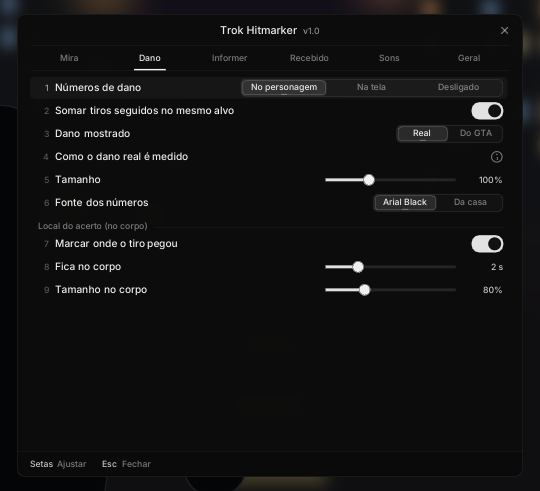
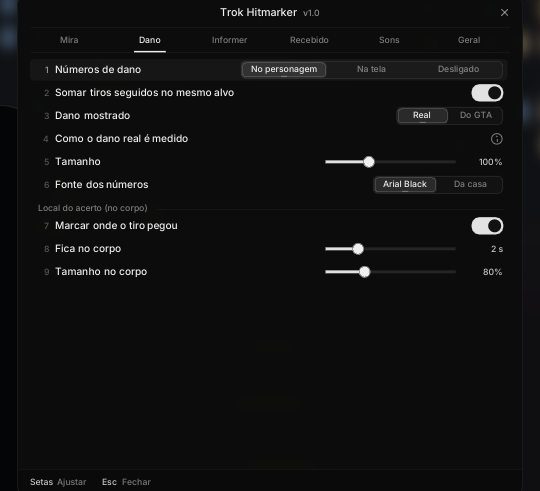
Trok Hitmarker concept: editable PNG crosshair and hit effects
Mira can be the game's, the Trok dot or an image; the hit effect can be
"Imagens". The images are PNGs in Trok Hitmarker\mira (mira, acerto,
colete, cabeca, abate), sized as they are at 1080p times the menu size,
with the same pop and fade as the dot effect and the dot as fallback.

Claude-Session: https://claude.ai/code/session_01PybPBz7ZnmDEjHWo6B5FJ6

diff --git a/trok-hit/src/hud.cpp b/trok-hit/src/hud.cpp
@@ -16,6 +16,22 @@ namespace {
 ImFont* g_text = nullptr;   // fonte da casa (nicks, rotulos)
 ImFont* g_number = nullptr; // numeros: Arial Black ou a fonte da casa
 ImFont* g_house = nullptr;  // numeros na fonte da casa
+struct Img {
+    ImTextureID texture = nullptr;
+    ImVec2 size;
+} g_images[IMG_COUNT];
+
+// Desenha a imagem centrada em c (tamanho da imagem a 1080 vezes scale); false se a imagem nao existe.
+bool Picture(ImDrawList* dl, int slot, ImVec2 c, float scale, float alpha) {
+    const Img& im = g_images[slot];
+    if (!im.texture) {
+        return false;
+    }
+    ImVec2 h(im.size.x * scale * 0.5f, im.size.y * scale * 0.5f);
+    dl->AddImage(im.texture, ImVec2(c.x - h.x, c.y - h.y), ImVec2(c.x + h.x, c.y + h.y), ImVec2(0, 0), ImVec2(1, 1),
+                 IM_COL32(255, 255, 255, static_cast<int>(255 * (alpha < 0 ? 0 : alpha > 1 ? 1 : alpha))));
+    return true;
+}
 constexpr float PI = 3.14159265f;
 
 float Clamp01(float v) {
@@ -202,7 +218,17 @@ ImU32 KindColor(Kind k, const opt::Options& o) {
     }
 }
 
+void SetImage(int slot, ImTextureID texture, ImVec2 size) {
+    if (slot >= 0 && slot < IMG_COUNT) {
+        g_images[slot].texture = texture;
+        g_images[slot].size = size;
+    }
+}
+
 void DrawCrosshair(ImDrawList* dl, ImVec2 c, float scale, const opt::Options& o) {
+    if (o.crosshair == 2 && Picture(dl, IMG_CROSSHAIR, c, scale * o.crosshairSize / 100.0f, 1.0f)) {
+        return;
+    }
     float r = 3.4f * scale * o.crosshairSize / 100.0f;
     dl->AddCircleFilled(c, r + 1.6f * scale, IM_COL32(0, 0, 0, 200), 20);
     dl->AddCircleFilled(c, r, Opaque(o.cCrosshair), 20);
@@ -247,6 +273,25 @@ void DrawMarker(ImDrawList* dl, ImVec2 c, int style, float scale, float age, Kin
                 float stay) {
     bool kill = kind == KILL;
     float life, hold;
+    if (style == 4) { // imagens: mesmos tempos e o mesmo pulo do Ponto; sem a imagem, o Ponto
+        int slot = kind == KILL ? IMG_KILL : kind == HEADSHOT ? IMG_HEAD : kind == ARMOUR ? IMG_ARMOUR : IMG_HIT;
+        if (slot == IMG_ARMOUR && !g_images[IMG_ARMOUR].texture) {
+            slot = IMG_HIT;
+        }
+        if (!g_images[slot].texture) {
+            style = 0;
+        } else {
+            life = kill ? 1.2f : kind == HEADSHOT ? 0.55f : 0.35f;
+            hold = kill ? 0.85f : kind == HEADSHOT ? 0.3f : 0.15f;
+            if (age >= life) {
+                return;
+            }
+            float a = age < hold ? 1.0f : 1.0f - (age - hold) / (life - hold);
+            float pop = 1.0f + 0.35f * (1.0f - EaseOut(age / 0.1f));
+            Picture(dl, slot, c, scale * pop, a);
+            return;
+        }
+    }
     if (style == 0) { // ponto: abate fica mais (o "morte" da Mira Centralizada durava 150 quadros)
         life = kill ? 1.2f : kind == HEADSHOT ? 0.55f : 0.35f;
         hold = kill ? 0.85f : kind == HEADSHOT ? 0.3f : 0.15f;

diff --git a/trok-hit/src/menu.cpp b/trok-hit/src/menu.cpp
@@ -76,7 +76,7 @@ void MarkerPreview(float x, float w) {
         float cx = x + w * (i + 0.5f) / 5;
         ImVec2 c(cx, at.y + 40 * u);
         if (i == 0) {
-            if (o.crosshair == 1) {
+            if (o.crosshair >= 1) { // ponto do Trok ou a imagem (sem a imagem, o ponto)
                 hud::DrawCrosshair(dl, c, scale, o);
             } else { // a do jogo: um circulo, so para lembrar
                 dl->AddCircle(c, 11 * scale, col::White(150), 32, 1.4f * scale);
@@ -93,18 +93,27 @@ void MarkerPreview(float x, float w) {
 void TabMira(Rows& r, float x, float w) {
     opt::Options& o = opt::Get();
     const opt::Options& d = opt::Defaults();
-    static const char* const mira[] = {"A do jogo", "Ponto do Trok"};
-    r.Segmented("Mira", &o.crosshair, mira, 2, d.crosshair);
-    if (o.crosshair == 1) {
+    static const char* const mira[] = {"A do jogo", "Ponto do Trok", "Imagem"};
+    r.Segmented("Mira", &o.crosshair, mira, 3, d.crosshair);
+    if (o.crosshair >= 1) {
         r.Toggle("Sempre vis\xC3\xADvel (tamb\xC3\xA9m sem mirar)", &o.crosshairAlways);
         r.Slider("Tamanho da mira", &o.crosshairSize, 50, 200, 10, "%d%%", d.crosshairSize);
-        r.Color("Cor da mira", &o.cCrosshair, d.cCrosshair);
+        if (o.crosshair == 1) {
+            r.Color("Cor da mira", &o.cCrosshair, d.cCrosshair);
+        }
     }
     r.Section("Sinal de acerto");
     r.Toggle("Sinal de acerto na mira", &o.onAim);
-    static const char* const style[] = {"Ponto", "Cl\xC3\xA1ssico (X)", "Discreto", "Anel"};
-    r.Cycle("Efeito", &o.marker, style, 4, d.marker);
+    static const char* const style[] = {"Ponto", "Cl\xC3\xA1ssico (X)", "Discreto", "Anel", "Imagens"};
+    r.Cycle("Efeito", &o.marker, style, 5, d.marker);
     r.Slider("Tamanho do efeito", &o.markerSize, 50, 200, 10, "%d%%", d.markerSize);
+    if (o.crosshair == 2 || o.marker == 4) {
+        r.Action("Pasta das imagens", "Abrir pasta");
+        r.Info("Trocar as imagens",
+               "PNG com fundo transparente na pasta Trok Hitmarker\\mira: mira, acerto, colete, cabeca e abate. "
+               "Sem colete.png, vale o acerto.png. O tamanho \xC3\xA9 o da imagem numa tela de 1080 (32 px = 32 px), "
+               "vezes o Tamanho do menu. Trocou o arquivo, vale na hora.");
+    }
     r.Section("Cores do acerto");
     r.Color("Na vida", &o.cHealth, d.cHealth);
     r.Color("No colete", &o.cArmour, d.cArmour);
@@ -218,7 +227,7 @@ bool Frame() {
     bool escape = keysOk && ImGui::IsKeyPressed(ImGuiKey_Escape, false);
 
     float width = 700 * u;
-    float height = std::min(io.DisplaySize.y * 0.8f, 640 * u);
+    float height = std::min(io.DisplaySize.y * 0.8f, 690 * u);
     PushStyle();
     bool keep = BeginShell("##trokHit", "Trok Hitmarker", VERSION_TAG, width, height, S.shell);
     ImVec2 pos = ImGui::GetWindowPos();

diff --git a/trok-hit/src/options.h b/trok-hit/src/options.h
@@ -17,13 +17,15 @@ struct Options {
     int preset = 0; // estilo pronto aplicado por ultimo (so para o menu mostrar)
 
     // ---- Mira
-    int crosshair = 1;       // 0 a do jogo, 1 ponto do Trok (como a Mira Centralizada; o GTA nao desenha a dele)
+    int crosshair = 1;       // 0 a do jogo, 1 ponto do Trok (como a Mira Centralizada), 2 imagem (mira\mira.png);
+                             // com 1 ou 2 o GTA nao desenha a dele
     bool crosshairAlways = true; // ponto do Trok: aparece tambem sem mirar (a pe; some no carro, sniper e bazucas)
     int crosshairSize = 100; // %
     ImU32 cCrosshair = IM_COL32(255, 255, 255, 255);
 
     // ---- Sinal de acerto na mira
-    int marker = 0;          // 0 Ponto (o ponto muda: acerto, cabeca, abate), 1 Classico (X), 2 Discreto, 3 Anel
+    int marker = 0;          // 0 Ponto (o ponto muda: acerto, cabeca, abate), 1 Classico (X), 2 Discreto, 3 Anel,
+                             // 4 imagens (mira\acerto.png, colete.png, cabeca.png, abate.png)
     bool onAim = true;       // sinal de acerto onde a mira esta (le onde o GTA desenhou a mira neste quadro, entao
                              // segue mod que centraliza ou sobe a mira; sem opcao de lugar)
     int markerSize = 100;    // %

diff --git a/trok-hit/src/hud.h b/trok-hit/src/hud.h
@@ -69,6 +69,11 @@ struct State {
     Kind flashKind = HEALTH;      // HEALTH, ARMOUR ou HEADSHOT: a cor da borda
 };
 
+// Imagens da pasta "Trok Hitmarker\mira" (PNG que o usuario edita). O overlay carrega e passa a textura; sem a
+// imagem, a mira e o efeito caem no desenho do Ponto. Tamanho: o da imagem numa tela de 1080, vezes o "Tamanho".
+enum ImageSlot { IMG_CROSSHAIR, IMG_HIT, IMG_ARMOUR, IMG_HEAD, IMG_KILL, IMG_COUNT };
+void SetImage(int slot, ImTextureID texture, ImVec2 size);
+
 // Fontes extras no atlas (numeros grandes em Arial Black ou na fonte da casa). Chamar antes de construir o atlas.
 void AddFonts(float screenHeight, const char* houseFont, const char* numberFont);
 ImU32 KindColor(Kind k, const opt::Options& o);

diff --git a/trok-hit/test/concept.cpp b/trok-hit/test/concept.cpp
@@ -466,6 +466,9 @@ int main(int argc, char** argv) {
     Menu(2, dir + "/12-menu-informer.ppm", 690, 1230);
     Menu(4, dir + "/13-menu-sons.ppm", 690, 1230);
     Menu(3, dir + "/14-menu-recebido.ppm", 690, 1230);
+    o.crosshair = 2, o.marker = 4; // imagens da pasta (sem os arquivos, a previa cai no Ponto)
+    Menu(0, dir + "/16-menu-mira-imagens.ppm", 690, 1230);
+    o = opt::Options();
 
     printf("concept: %d falhas\n", failures);
     return failures ? 1 : 0;

diff --git a/trok-hit/README.md b/trok-hit/README.md
@@ -23,6 +23,7 @@ Só o sinal de acerto acompanha a mira. O resto fica preso à tela: a seta de on
 
 - **Mira:** a do jogo ou o **ponto do Trok** (o da Mira Centralizada, refeito no kit): ponto com contorno, na cor e no tamanho escolhidos, que pode ficar **sempre visível** (também sem mirar, a pé; some no carro e com sniper, bazuca e lança-mísseis, como no script original). Com o ponto do Trok, o GTA não desenha a mira dele.
 - **Sinal de acerto na mira:** efeitos Ponto (o próprio ponto reage: acerto na cor e pulando com um anel abrindo, cabeça com uma cruz, abate com o X em volta), Clássico (X), Discreto e Anel (`docs/04-hitmarker.png`). Medido em tempo (acerto 0,35 s, cabeça 0,55 s, abate 1,2 s), não em quadros como os 30/150 quadros da Mira Centralizada.
+- **Imagens:** a mira e os efeitos também podem ser PNG que você edita, na pasta `Trok Hitmarker\mira`: `mira.png`, `acerto.png`, `colete.png` (sem ele, vale o `acerto.png`), `cabeca.png` e `abate.png`. Fundo transparente; o tamanho é o da imagem numa tela de 1080 (32 px = 32 px), vezes o "Tamanho" do menu; as imagens ganham o mesmo pulo e o mesmo sumir do Ponto. Sem o arquivo, vale o desenho do Ponto. PNG em vez de `.txd`: abre em qualquer editor e não precisa de TXD Workshop.
 - **Onde:** desenhado onde a mira está naquele quadro. O mod lê onde o próprio GTA desenhou a mira, então mod que centraliza ou sobe a mira não precisa de ajuste nem de opção no menu (`docs/08-mira-seguida.png`).
 - **Local do acerto:** o X fica na parte do corpo que o tiro pegou (cabeça, tronco, braço, perna) por 1 a 5 s, acompanhando o alvo quando ele anda (`docs/06-local-do-acerto.png`).
 
